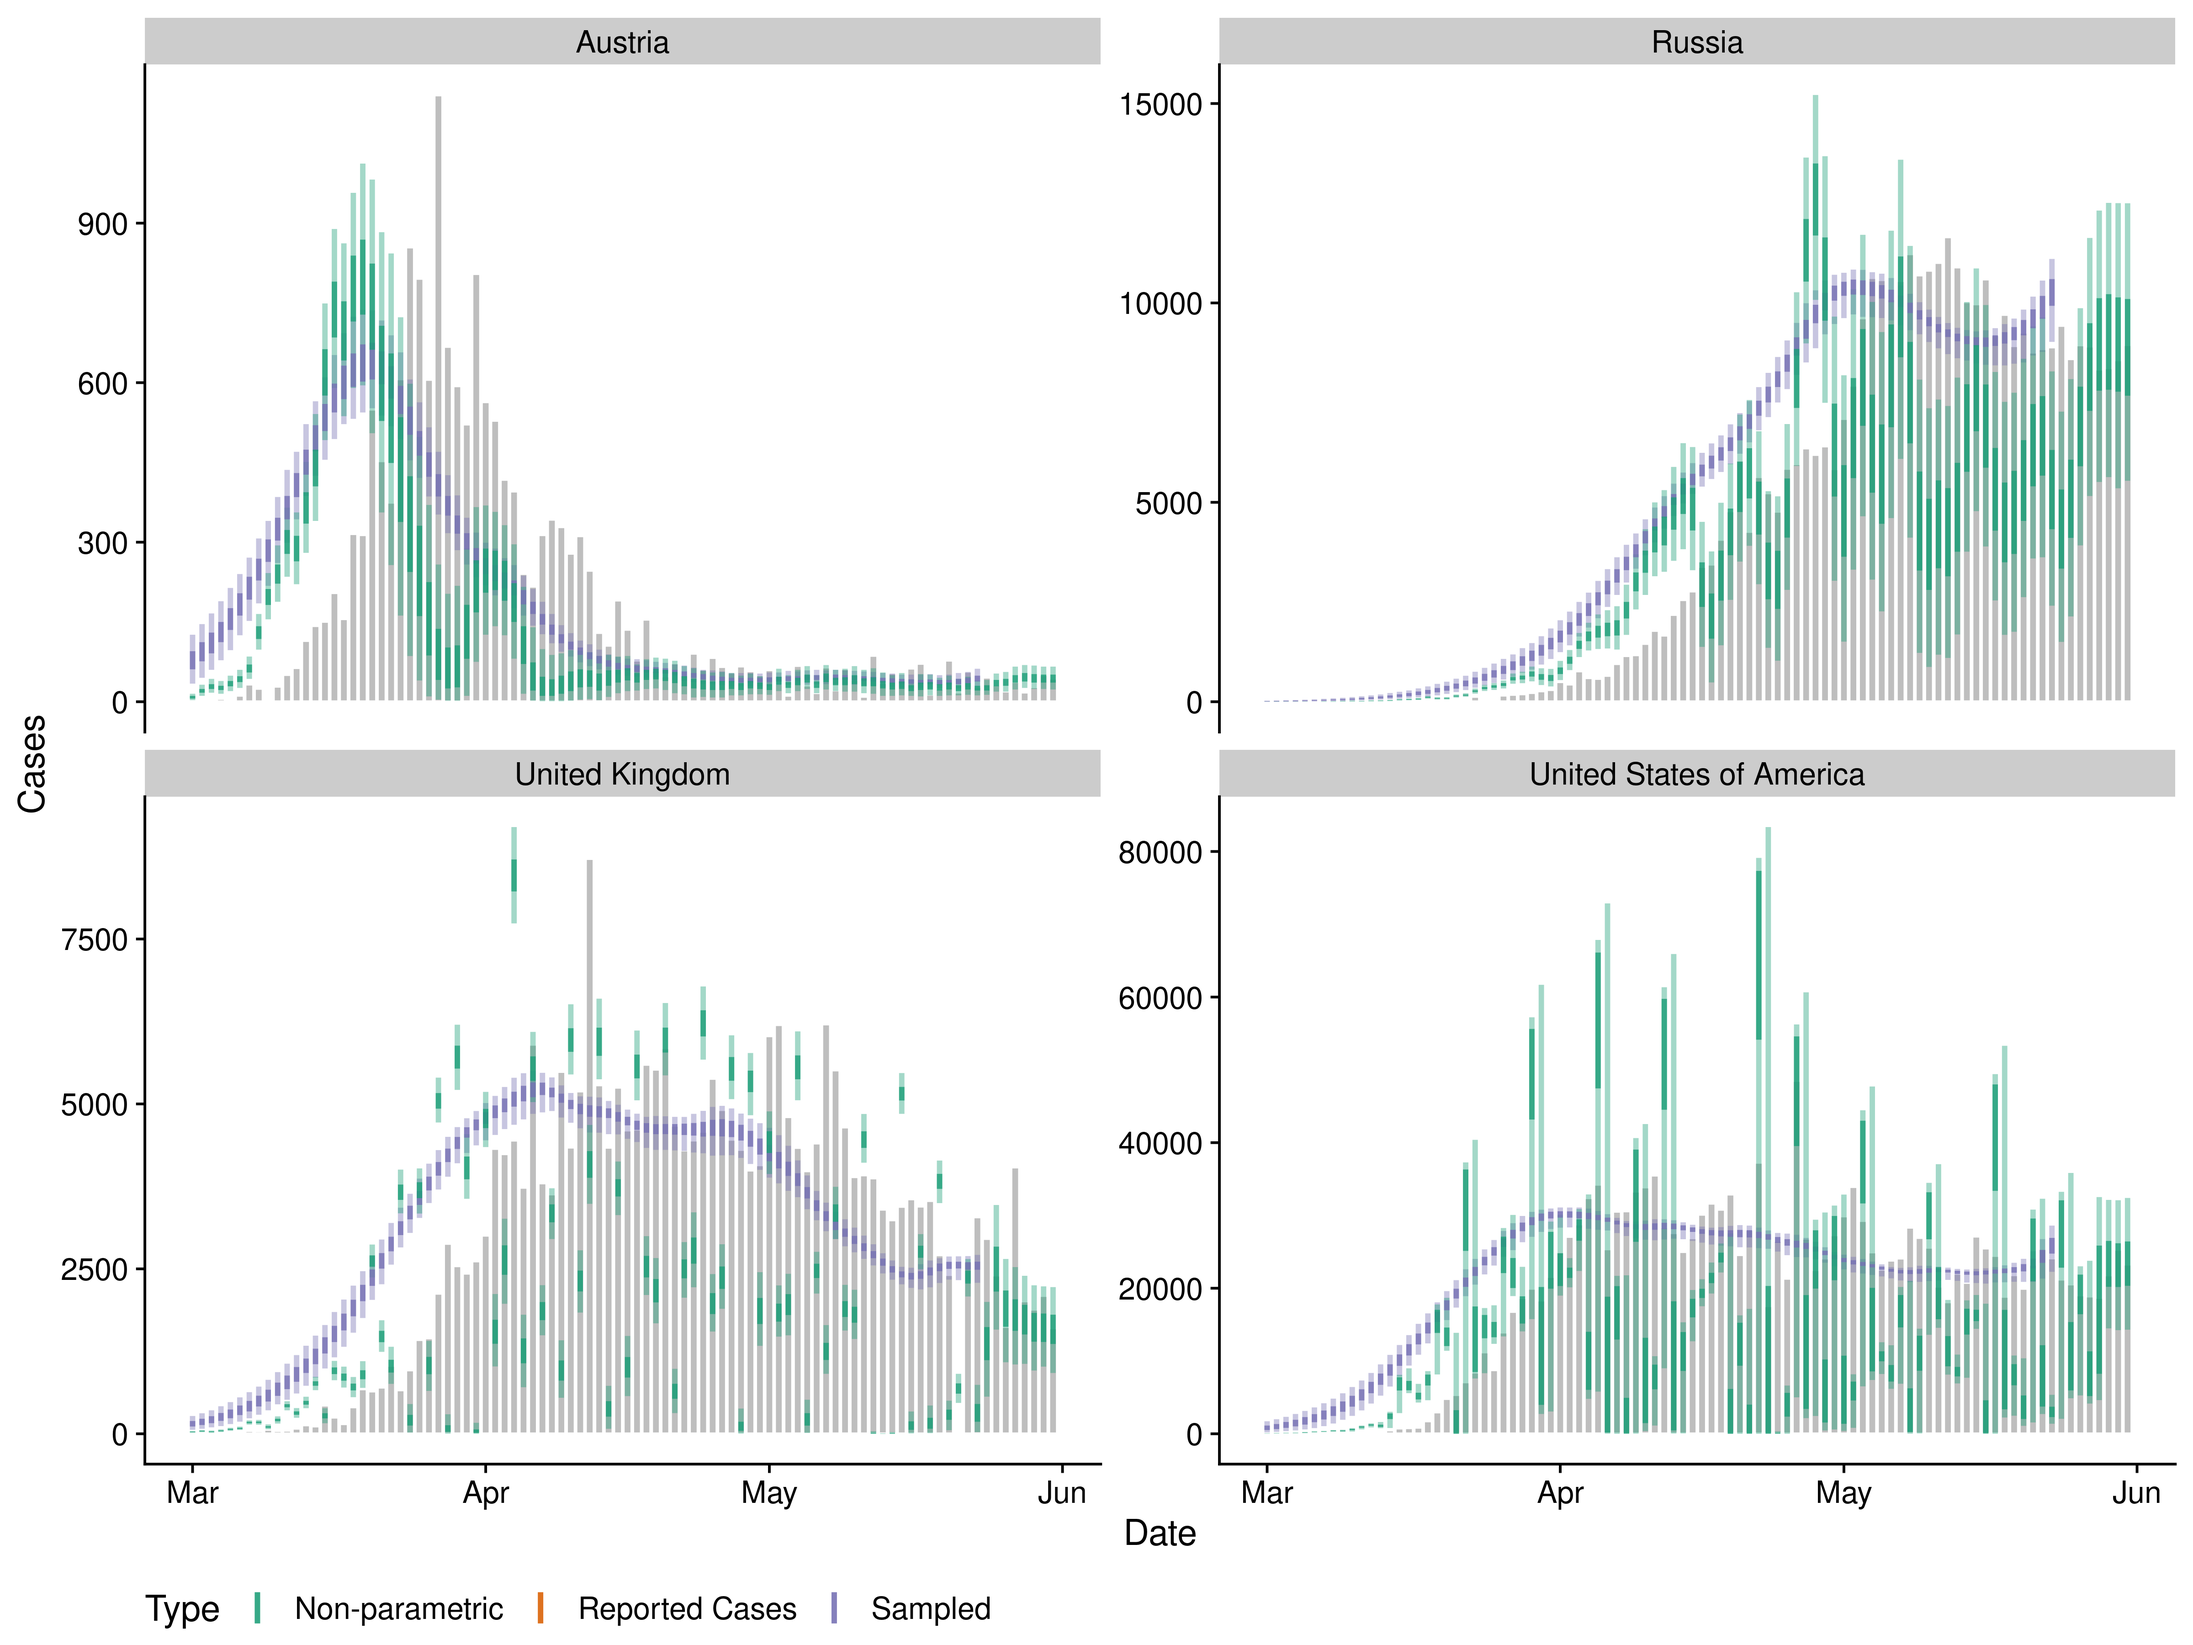
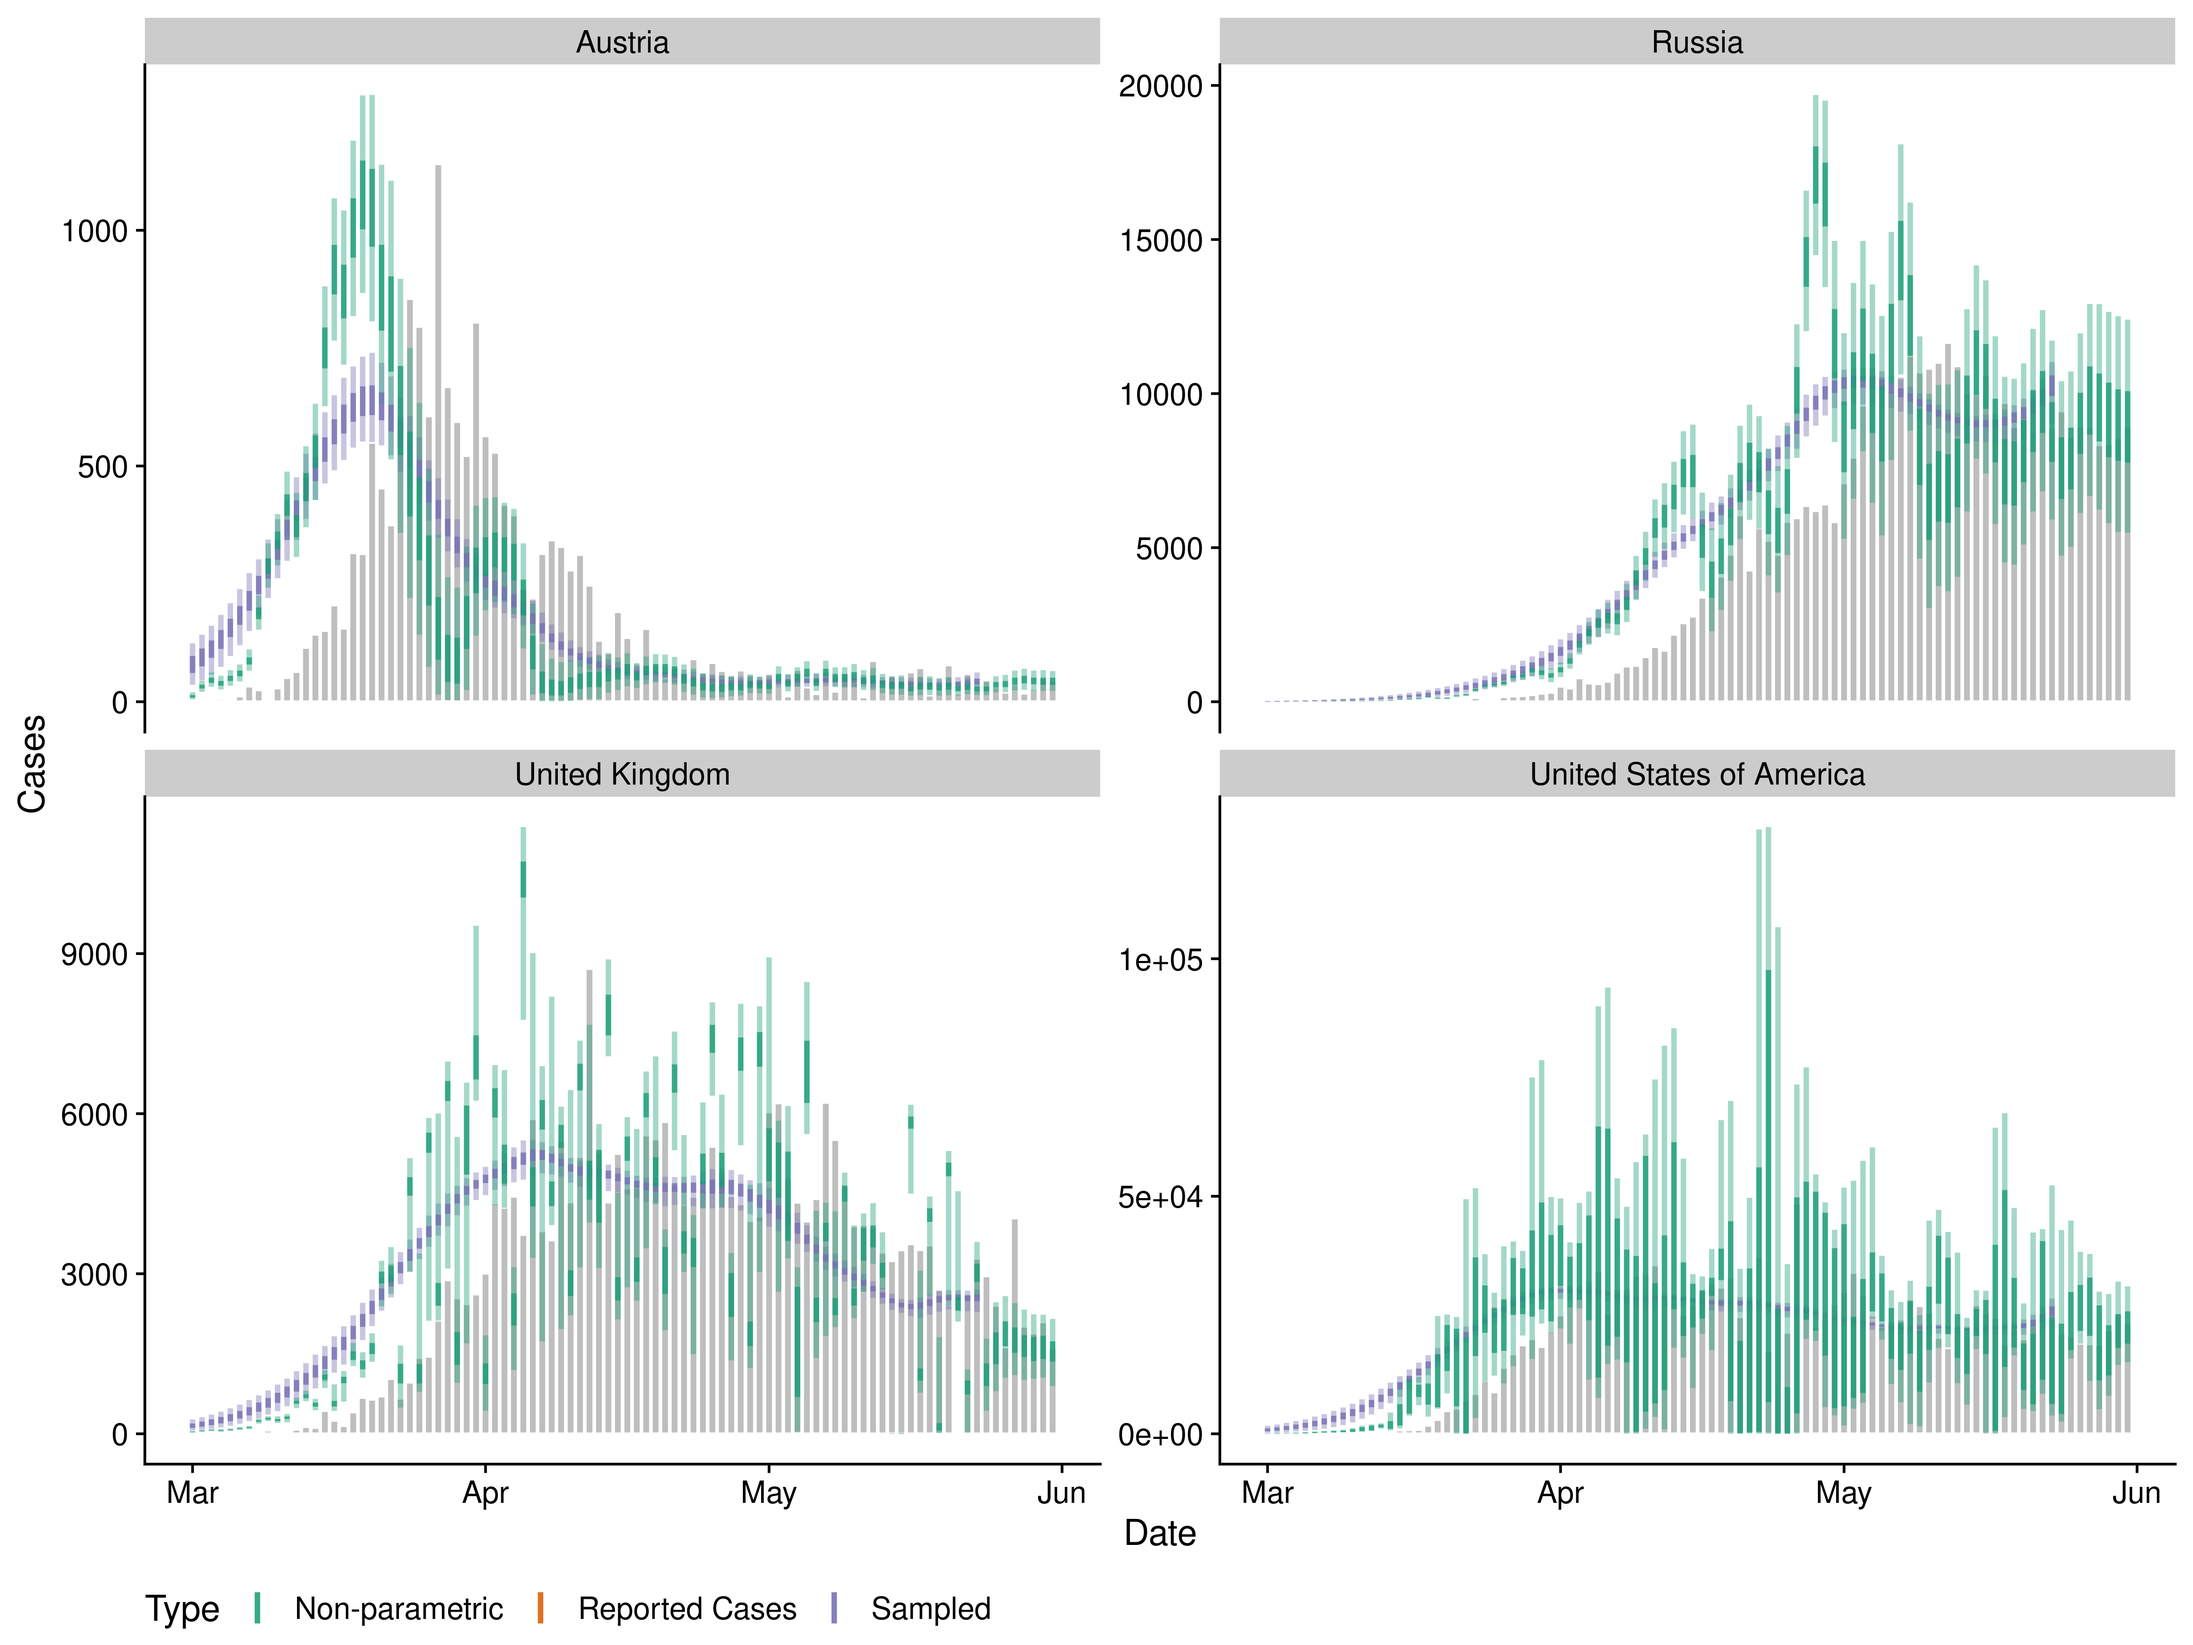
fit weekly reports to bound reporting effects

diff --git a/report.md b/report.md
@@ -108,6 +108,19 @@ model
 #>   int model_type; //Type of model: 1 = Poisson otherwise negative binomial
 #> }
 #> 
+#> transformed data{
+#>   int<lower = 0> weekly_cases[t];
+#>   int<lower = 0> cum_cases[t];
+#>   
+#>   //Calculate weekly cases
+#>   cum_cases[1] = cases[1];
+#>   weekly_cases[1] = cases[1];
+#>   for (s in 2:t) { 
+#>     cum_cases[s] = cum_cases[s - 1] + cases[s];
+#>     weekly_cases[s] = cum_cases[s] - cum_cases[max(1, s - 7)];
+#>   }
+#>   
+#> }
 #> parameters{
 #>   vector<lower = 0>[t] noise;
 #>   real <lower = 0> inc_mean;         // mean of incubation period
@@ -124,7 +137,10 @@ model
 #>   vector<lower = 0>[t] infections;
 #>   vector<lower = 0>[t] onsets;
 #>   vector<lower = 0>[t] reports;
+#>   vector<lower = 0>[t] cum_reports;
+#>   vector<lower = 0>[t] weekly_reports;
 #> 
+#>    
 #>   //Reverse the distributions to allow vectorised access
 #>     for (j in 1:max_rep) {
 #>       rev_delay[j] =
@@ -145,9 +161,14 @@ model
 #>   // Reports from onsets
 #>   reports = convolve(onsets, rev_delay);
 #>      
-#>   // Add reporting effects
+#>  //Calculate Cumulative reports
+#>   cum_reports = cumulative_sum(reports);
+#>   
 #>   for (s in 1:t) {
-#>       reports[s] = reports[s] * day_of_week_eff[day_of_week[s]];
+#>     //Calculate weekly reports
+#>     weekly_reports[s] = cum_reports[s] - cum_reports[max(1, s - 7)];
+#>     // Add reporting effects
+#>     reports[s] *= day_of_week_eff[day_of_week[s]];
 #>     }
 #> }
 #> 
@@ -156,7 +177,7 @@ model
 #>   for (j in 1:7) {
 #>     day_of_week_eff[j] ~ normal(1, 0.1) T[0,];
 #>   }
-#> 
+#>   
 #>   // Reporting overdispersion
 #>   phi ~ exponential(1);
 #> 
@@ -168,8 +189,10 @@ model
 #>   // Log likelihood of reports
 #>   if (model_type == 1) {
 #>     target +=  poisson_lpmf(cases | reports);
+#>     target +=  poisson_lpmf(weekly_cases[7:t] | weekly_reports[7:t]);
 #>   }else{
 #>     target += neg_binomial_2_lpmf(cases | reports, phi);
+#>     target += neg_binomial_2_lpmf(weekly_cases[7:t] | weekly_reports[7:t], phi);
 #>   }
 #> 
 #>   // penalised priors
@@ -259,17 +282,17 @@ simulated_cases <- EpiNow::simulate_cases(rts, initial_cases = 100 , initial_dat
                                           reporting_effect = c(1.4, rep(1, 4), 0.8, 0.8))
 simulated_cases
 #>            date cases reference
-#>   1: 2020-03-02    42 infection
-#>   2: 2020-03-03    47 infection
-#>   3: 2020-03-04    76 infection
-#>   4: 2020-03-05   101 infection
-#>   5: 2020-03-06   119 infection
+#>   1: 2020-03-02    34 infection
+#>   2: 2020-03-03    55 infection
+#>   3: 2020-03-04    68 infection
+#>   4: 2020-03-05    74 infection
+#>   5: 2020-03-06   104 infection
 #>  ---                           
-#> 178: 2020-04-27   777    report
-#> 179: 2020-04-28   593    report
-#> 180: 2020-04-29   603    report
-#> 181: 2020-04-30   630    report
-#> 182: 2020-05-01   683    report
+#> 176: 2020-04-27   746    report
+#> 177: 2020-04-28   574    report
+#> 178: 2020-04-29   528    report
+#> 179: 2020-04-30   524    report
+#> 180: 2020-05-01   500    report
 ```
 
 ### Compare approaches on simulated data
@@ -290,13 +313,15 @@ sampling_cases <- nowcast_pipeline(reported_cases = simulated_reports[, import_s
                                    nowcast_lag = 0, approx_delay = TRUE)
 #> Warning in stats::rnbinom(n, x + 1, prob): NAs produced
 
+#> Warning in stats::rnbinom(n, x + 1, prob): NAs produced
+
 ## Non-parameteric reconstruction
 non_parametric_cases <- nowcast(simulated_reports,
                                 family = "poisson", incubation_period = incubation_period,
                                 reporting_delay = reporting_delay,
                                 generation_interval = generation_interval, cores = 4, chains = 4,
                                 samples = 1000, return_all = TRUE, model = model, verbose = TRUE)
-#> Running for 2000 samples and 63 time steps
+#> Running for 2000 samples and 62 time steps
 ```
 
 ### Compare approaches on reported Covid-19 cases in Austria, the United Kingdom, United States of America and Russia
@@ -354,6 +379,14 @@ results <- lapply(countries,
 
 #> Warning in stats::rnbinom(n, x + 1, prob): NAs produced
 
+#> Warning in stats::rnbinom(n, x + 1, prob): NAs produced
+
+#> Warning in stats::rnbinom(n, x + 1, prob): NAs produced
+
+#> Warning in stats::rnbinom(n, x + 1, prob): NAs produced
+
+#> Warning in stats::rnbinom(n, x + 1, prob): NAs produced
+
 names(results) <- countries
 ```
 
@@ -368,14 +401,14 @@ names(results) <- countries
 
 ``` r
 non_parametric_cases$day_of_week[, as.list(summary(value)), by = "wday"]
-#>         wday     Min.  1st Qu.   Median     Mean  3rd Qu.     Max.
-#> 1:    Monday 1.902820 2.003339 2.026474 2.027128 2.050615 2.148621
-#> 2:   Tuesday 1.392113 1.465121 1.484220 1.484420 1.503557 1.580182
-#> 3: Wednesday 1.362650 1.452986 1.471773 1.472167 1.490939 1.581871
-#> 4:  Thursday 1.367779 1.451714 1.470240 1.470722 1.489859 1.564598
-#> 5:    Friday 1.376836 1.457507 1.476077 1.476577 1.495172 1.590575
-#> 6:  Saturday 1.100633 1.160272 1.175388 1.176022 1.191357 1.269454
-#> 7:    Sunday 1.106332 1.172542 1.188139 1.188054 1.203116 1.277741
+#>         wday      Min.   1st Qu.    Median      Mean   3rd Qu.      Max.
+#> 1:    Monday 1.3353023 1.3822565 1.3913138 1.3913100 1.4011592 1.4445213
+#> 2:   Tuesday 0.9449130 0.9758391 0.9836865 0.9837860 0.9915880 1.0244647
+#> 3: Wednesday 0.9472270 0.9790449 0.9866207 0.9867548 0.9942369 1.0286067
+#> 4:  Thursday 0.9679364 0.9986775 1.0068053 1.0067823 1.0146936 1.0566053
+#> 5:    Friday 0.9784445 1.0074868 1.0152009 1.0152511 1.0230261 1.0594076
+#> 6:  Saturday 0.7963804 0.8263336 0.8333501 0.8337154 0.8411233 0.8749864
+#> 7:    Sunday 0.7701192 0.8011399 0.8083321 0.8084377 0.8154991 0.8503738
 ```
 
   - Recover reporting delays
@@ -388,8 +421,8 @@ data.table::rbindlist(list(
   non_parametric_cases$rep_sd[, .(parameter = "sd", mean = mean(value), sd = sd(value))]
 ))
 #>    parameter      mean         sd
-#> 1:      mean 1.5094239 0.01124329
-#> 2:        sd 0.7075753 0.02161969
+#> 1:      mean 1.3956457 0.01012434
+#> 2:        sd 0.7654912 0.02344048
 ```
 
   - Recover incubation period
@@ -402,8 +435,8 @@ data.table::rbindlist(list(
   non_parametric_cases$inc_sd[, .(parameter = "sd", mean = mean(value), sd = sd(value))]
 ))
 #>    parameter      mean          sd
-#> 1:      mean 1.5674071 0.007563533
-#> 2:        sd 0.4212932 0.008447269
+#> 1:      mean 1.4972412 0.007062401
+#> 2:        sd 0.4289151 0.008564073
 ```
 
   - Prepare data for
@@ -485,44 +518,44 @@ country
 ``` r
 purrr::map(results, ~ .[[2]]$day_of_week[, as.list(summary(value)), by = "wday"])
 #> $Austria
-#>         wday     Min.  1st Qu.   Median     Mean  3rd Qu.     Max.
-#> 1:    Monday 1.003869 1.077007 1.097614 1.098317 1.118879 1.217282
-#> 2:   Tuesday 1.305876 1.415159 1.440699 1.441421 1.466242 1.599845
-#> 3: Wednesday 1.298441 1.401610 1.426439 1.426536 1.450478 1.568718
-#> 4:  Thursday 1.176886 1.264578 1.286425 1.286900 1.309680 1.397371
-#> 5:    Friday 1.451119 1.561865 1.588790 1.588488 1.615422 1.722993
-#> 6:  Saturday 1.282577 1.365209 1.389611 1.389710 1.413234 1.513859
-#> 7:    Sunday 1.012487 1.096579 1.118227 1.118199 1.139168 1.218347
+#>         wday      Min.   1st Qu.    Median      Mean   3rd Qu.      Max.
+#> 1:    Monday 0.7655769 0.8135918 0.8265455 0.8264973 0.8390937 0.9049685
+#> 2:   Tuesday 1.0247455 1.0810325 1.0948969 1.0954726 1.1092755 1.1767656
+#> 3: Wednesday 1.0209878 1.0703086 1.0842366 1.0844770 1.0986795 1.1540748
+#> 4:  Thursday 0.9075167 0.9620746 0.9756416 0.9757692 0.9896840 1.0375171
+#> 5:    Friday 1.1383384 1.1973949 1.2125348 1.2129495 1.2281412 1.2866985
+#> 6:  Saturday 0.9694359 1.0416372 1.0552197 1.0555382 1.0695850 1.1318238
+#> 7:    Sunday 0.7801968 0.8319292 0.8444457 0.8445550 0.8565708 0.9215499
 #> 
 #> $`United Kingdom`
-#>         wday      Min.  1st Qu.   Median     Mean  3rd Qu.     Max.
-#> 1:    Monday 1.2814755 1.385751 1.411761 1.413388 1.440289 1.544749
-#> 2:   Tuesday 0.9932914 1.084431 1.105810 1.105389 1.126616 1.210651
-#> 3: Wednesday 1.6077970 1.752078 1.781306 1.782639 1.813324 1.946729
-#> 4:  Thursday 1.6643914 1.753612 1.781748 1.783982 1.811174 1.961225
-#> 5:    Friday 1.5656658 1.740930 1.778917 1.780431 1.815605 1.999957
-#> 6:  Saturday 1.2883746 1.374935 1.393716 1.394852 1.415309 1.521516
-#> 7:    Sunday 1.4847833 1.575304 1.601612 1.601659 1.626736 1.731020
+#>         wday      Min.   1st Qu.    Median      Mean   3rd Qu.      Max.
+#> 1:    Monday 0.9107524 0.9620038 0.9795399 0.9879853 1.0110884 1.1003697
+#> 2:   Tuesday 0.7275555 0.7897585 0.8098826 0.8054894 0.8209623 0.8781479
+#> 3: Wednesday 1.0012295 1.0563346 1.0707921 1.0729571 1.0876432 1.1941037
+#> 4:  Thursday 0.9514400 1.0001146 1.0148029 1.0138181 1.0266413 1.0715483
+#> 5:    Friday 0.9409918 1.0423493 1.0587610 1.0568514 1.0765250 1.1457422
+#> 6:  Saturday 0.9261450 0.9609180 0.9740313 0.9747539 0.9864894 1.0648917
+#> 7:    Sunday 0.9843700 1.1159838 1.1327188 1.1320732 1.1495603 1.2422054
 #> 
 #> $`United States of America`
-#>         wday     Min.  1st Qu.   Median     Mean  3rd Qu.     Max.
-#> 1:    Monday 1.316039 1.394631 1.438700 1.425906 1.456850 1.519692
-#> 2:   Tuesday 1.438004 1.535344 1.592008 1.576133 1.611416 1.692609
-#> 3: Wednesday 1.714663 1.830338 1.896862 1.877839 1.921466 2.016750
-#> 4:  Thursday 1.187206 1.279803 1.326326 1.311118 1.341786 1.400628
-#> 5:    Friday 1.566618 1.694741 1.756385 1.735876 1.777616 1.851136
-#> 6:  Saturday 1.677872 1.801986 1.855881 1.838542 1.879660 1.950994
-#> 7:    Sunday 1.787214 1.904826 1.965495 1.948309 1.989190 2.069483
+#>         wday      Min.   1st Qu.    Median      Mean   3rd Qu.      Max.
+#> 1:    Monday 0.8161469 0.8632486 0.8712021 0.8653563 0.8769079 0.9196614
+#> 2:   Tuesday 0.8642856 0.8865765 0.9274487 0.9219571 0.9562661 0.9708673
+#> 3: Wednesday 0.9704579 1.0064315 1.1450768 1.1057264 1.1540732 1.1832625
+#> 4:  Thursday 0.8298916 0.8493762 0.8957339 0.9083105 0.9544131 1.0248374
+#> 5:    Friday 0.9678014 1.0142522 1.0227595 1.0247695 1.0436822 1.0662887
+#> 6:  Saturday 0.9871383 1.0515249 1.0641303 1.0600509 1.0774106 1.1230214
+#> 7:    Sunday 1.1090774 1.1306767 1.1396097 1.1462902 1.1578909 1.2020191
 #> 
 #> $Russia
-#>         wday     Min.  1st Qu.   Median     Mean  3rd Qu.     Max.
-#> 1:    Monday 1.486900 1.569562 1.586170 1.586179 1.602627 1.682876
-#> 2:   Tuesday 1.422231 1.499470 1.516063 1.515840 1.531725 1.604834
-#> 3: Wednesday 1.429735 1.505883 1.522643 1.522386 1.538716 1.605215
-#> 4:  Thursday 1.354536 1.433161 1.449186 1.448797 1.464296 1.534571
-#> 5:    Friday 1.382231 1.464679 1.480864 1.480542 1.496252 1.580211
-#> 6:  Saturday 1.427733 1.509669 1.526102 1.525736 1.541702 1.621498
-#> 7:    Sunday 1.443125 1.520475 1.536559 1.536509 1.552394 1.629170
+#>         wday      Min.   1st Qu.    Median      Mean   3rd Qu.      Max.
+#> 1:    Monday 1.0276946 1.0442817 1.0477563 1.0478069 1.0512977 1.0656380
+#> 2:   Tuesday 0.9820777 0.9965535 0.9999129 0.9999603 1.0032806 1.0181828
+#> 3: Wednesday 0.9855045 1.0000639 1.0035784 1.0034942 1.0068771 1.0203154
+#> 4:  Thursday 0.9384437 0.9516904 0.9548890 0.9549107 0.9581096 0.9704446
+#> 5:    Friday 0.9599936 0.9731338 0.9764560 0.9764641 0.9797406 0.9937988
+#> 6:  Saturday 0.9923479 1.0046893 1.0080413 1.0080781 1.0114241 1.0253206
+#> 7:    Sunday 0.9993627 1.0143676 1.0176420 1.0176693 1.0209728 1.0358172
 ```
 
   - Prepare data for
